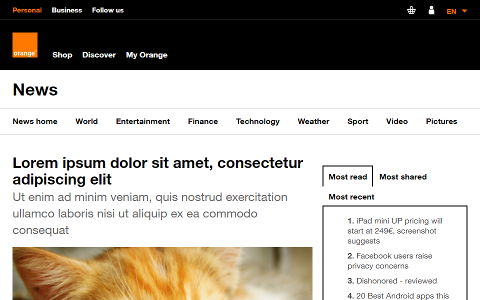
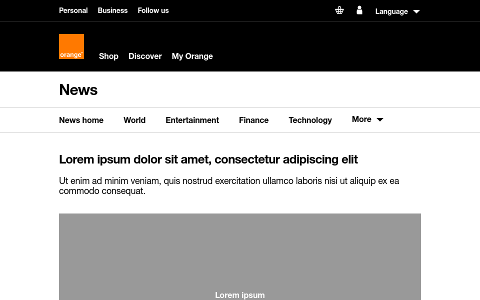
docs(examples): improve news template example

diff --git a/site/docs/4.4/examples/news-template/index.html b/site/docs/4.4/examples/news-template/index.html
@@ -183,10 +183,13 @@
 
       <section class="container">
         <div class="row">
-          <div class="col-12 col-sm-12 col-md-8">
+          <div class="col-12 col-lg-8">
             <h2 id="newsLeaderTitle">Lorem ipsum dolor sit amet, consectetur adipiscing elit</h2>
             <p class="lead">Ut enim ad minim veniam, quis nostrud exercitation ullamco laboris nisi ut aliquip ex ea commodo consequat.</p>
-            <img alt="Bored of lorem ipsum?" src="./images/8565182.jpg" class="img-fluid my-3" width="740" height="380" />
+            <svg class="img-fluid mt-3 mb-4 h5" width="860" height="380" xmlns="http://www.w3.org/2000/svg" preserveAspectRatio="xMidYMid slice" focusable="false" role="img">
+              <rect width="100%" height="100%" fill="#999"/>
+              <text x="50%" y="50%" fill="#fff" dy=".3em" dominant-baseline="middle" text-anchor="middle">Lorem ipsum</text>
+            </svg>
             <p>Lorem ipsum dolor sit amet, consectetur adipiscing elit. Nulla nec augue tempor, vestibulum nulla eget, lobortis
               sem. Duis nulla libero, tristique id nisi eget, dictum facilisis arcu. Duis eu felis lacinia, vestibulum est
               in, molestie nulla. Pellentesque habitant morbi tristique senectus et netus et malesuada fames ac turpis egestas.
@@ -268,97 +271,41 @@
               </div>
             </div>
             <!-- fin comments -->
-
-
-
-            <div class="row" id="newsSupp">
-              <div class="col-6 col-sm-6 col-lg-4 news">
-                <h2>a news</h2>
-                <p>Donec id elit non mi porta gravida at eget metus. Fusce dapibus, tellus ac cursus commodo, tortor mauris condimentum
-                  nibh, ut fermentum massa justo sit amet risus. Etiam porta sem malesuada magna mollis euismod. Donec sed odio
-                  dui. </p>
-                <a class="btn btn-secondary" href="#" title="view details about a news">View details »</a>
-              </div>
-
-              <div class="col-6 col-sm-6 col-lg-4 news">
-                <h2>news 2</h2>
-                <p>Donec id elit non mi porta gravida at eget metus. Fusce dapibus, tellus ac cursus commodo, tortor mauris condimentum
-                  nibh, ut fermentum massa justo sit amet risus. Etiam porta sem malesuada magna mollis euismod. Donec sed odio
-                  dui. </p>
-                <p><a class="btn btn-secondary" href="#" title="view details about another news">View details »</a></p>
-              </div>
-
-              <div class="col-6 col-sm-6 col-lg-4 news">
-                <h2>news 3</h2>
-                <p>Donec id elit non mi porta gravida at eget metus. Fusce dapibus, tellus ac cursus commodo, tortor mauris condimentum
-                  nibh, ut fermentum massa justo sit amet risus. Etiam porta sem malesuada magna mollis euismod. Donec sed odio
-                  dui. </p>
-                <p><a class="btn btn-secondary" href="#" title="view details about news 3">View details »</a></p>
-              </div>
-
-              <div class="col-6 col-sm-6 col-lg-4 news">
-                <h2>news 4</h2>
-                <p>Donec id elit non mi porta gravida at eget metus. Fusce dapibus, tellus ac cursus commodo, tortor mauris condimentum
-                  nibh, ut fermentum massa justo sit amet risus. Etiam porta sem malesuada magna mollis euismod. Donec sed odio
-                  dui. </p>
-                <p><a class="btn btn-secondary" href="#" title="view details about news 4">View details »</a></p>
-              </div>
-
-              <div class="col-6 col-sm-6 col-lg-4 news">
-                <h2>news 5</h2>
-                <p>Donec id elit non mi porta gravida at eget metus. Fusce dapibus, tellus ac cursus commodo, tortor mauris condimentum
-                  nibh, ut fermentum massa justo sit amet risus. Etiam porta sem malesuada magna mollis euismod. Donec sed odio
-                  dui. </p>
-                <p><a class="btn btn-secondary" href="#" title="view details about news 5">View details »</a></p>
-              </div>
-
-              <div class="col-6 col-sm-6 col-lg-4 news">
-                <h2>news 6</h2>
-                <p>Donec id elit non mi porta gravida at eget metus. Fusce dapibus, tellus ac cursus commodo, tortor mauris condimentum
-                  nibh, ut fermentum massa justo sit amet risus. Etiam porta sem malesuada magna mollis euismod. Donec sed odio
-                  dui. </p>
-                <p><a class="btn btn-secondary" href="#" title="view details about news 6">View details »</a></p>
-              </div>
-            </div>
-            <!-- fin row news supp -->
           </div>
           <!-- fin de la div de 8 colonnes -->
 
-
-
-          <div id="infos" class="col-12 col-sm-12 col-md-4">
+          <aside role="complementary" id="infos" class="col-12 col-lg-4 mt-5 mt-lg-0 pl-lg-5">
             <ul class="nav nav-tabs">
-              <li class="nav-item"><a class="nav-link active" href="#mostRead" data-toggle="tab">Most read</a></li>
-              <li class="nav-item"><a class="nav-link" href="#mostShared" data-toggle="tab">Most shared</a></li>
-              <li class="nav-item"><a class="nav-link" href="#mostRecent" data-toggle="tab">Most recent</a></li>
+              <li class="nav-item"><a class="nav-link active" href="#mostRead" data-toggle="tab">Popular</a></li>
+              <li class="nav-item"><a class="nav-link" href="#mostShared" data-toggle="tab">Trends</a></li>
+              <li class="nav-item"><a class="nav-link" href="#mostRecent" data-toggle="tab">Latest</a></li>
             </ul>
             <!-- Tab panes -->
             <div class="tab-content">
               <div class="tab-pane active" id="mostRead">
-                <ul>
-                  <li><a href="#"><span class="bold">1. </span>iPad mini UP pricing will start at 249€, screenshot suggests</a></li>
-                  <li><a href="#"><span class="bold">2. </span>Facebook users raise privacy concerns</a></li>
-                  <li><a href="#"><span class="bold">3. </span>Dishonored - reviewed</a></li>
-                  <li><a href="#"><span class="bold">4. </span>20 Best Android apps this week</a></li>
-                  <li><a href="#"><span class="bold">5. </span>Winsor McCay: Little Nemo in Slumberland Doodle celebates a comics great</a></li>
-                  <li><a class="svg-arrow-next" href="#">more most read</a></li>
-                </ul>
+                <ol>
+                  <li><a href="#">iPad mini UP pricing will start at 249€, screenshot suggests</a></li>
+                  <li><a href="#">Facebook users raise privacy concerns</a></li>
+                  <li><a href="#">Dishonored - reviewed</a></li>
+                  <li><a href="#">20 Best Android apps this week</a></li>
+                  <li><a href="#">Winsor McCay: Little Nemo in Slumberland Doodle celebates a comics great</a></li>
+                </ol>
+                <a class="o-link-arrow ml-4" href="#">More popular</a>
               </div>
               <div class="tab-pane" id="mostShared">
-                <ul>
-                  <li><a href="#"><span class="bold">1. </span>Facebook users raise privacy concerns</a></li>
-                  <li><a href="#"><span class="bold">2. </span>Winsor McCay: Little Nemo in Slumberland Doodle celebates a comics great</a></li>
-                  <li><a href="#"><span class="bold">3. </span>20 Best Android apps this week</a></li>
-                  <li><a href="#"><span class="bold">4. </span>Dishonored - reviewed</a></li>
-                  <li><a href="#"><span class="bold">5. </span>iPad mini UP pricing will start at 249€, screenshot suggests</a></li>
-                </ul>
+                <ol>
+                  <li><a href="#">Facebook users raise privacy concerns</a></li>
+                  <li><a href="#">Winsor McCay: Little Nemo in Slumberland Doodle celebates a comics great</a></li>
+                  <li><a href="#">20 Best Android apps this week</a></li>
+                  <li><a href="#">Dishonored - reviewed</a></li>
+                  <li><a href="#">iPad mini UP pricing will start at 249€, screenshot suggests</a></li>
+                </ol>
+                <a class="o-link-arrow ml-4" href="#">More trends</a>
               </div>
-              <div class="tab-pane" id="mostRecent">no recent news</div>
+              <div class="tab-pane" id="mostRecent">No recent news.</div>
             </div>
 
-
-
-            <h2 class="h3">related stories</h2>
+            <h2 class="h3 mt-5">Related stories</h2>
             <div id="accordion" class="accordion">
               <div class="card">
                 <div class="card-header" id="headingOne">
@@ -407,83 +354,178 @@
               </div>
             </div>
             <!-- fin de la div accordéon -->
-          </div>
+          </aside>
           <!--fin de la div de 4 colonnes -->
         </div>
         <!-- fin de la row globale-->
       </section>
+
+      <div class="bg-light py-5 border-top mt-3">
+        <div class="container-fluid">
+          <h2>Latest news</h2>
+          <div class="row row-cols-1 row-cols-sm-2 row-cols-md-3 row-cols-lg-6" id="newsSupp">
+            <div class="col mb-3">
+              <div class="card">
+                <div class="card-body">
+                  <h2 class="card-title">News 1</h2>
+                  <p class="card-text">Donec id elit non mi porta gravida at eget metus. Fusce dapibus, tellus ac cursus commodo, tortor mauris condimentum
+                    nibh, ut fermentum massa justo sit amet risus. Etiam porta sem malesuada magna mollis euismod. Donec sed odio
+                    dui. </p>
+                  <a class="btn btn-primary" href="#">View details<span class="sr-only"> about News 1</span></a>
+                </div>
+              </div>
+            </div>
+
+            <div class="col mb-3">
+              <div class="card">
+                <div class="card-body">
+                  <h2 class="card-title">News 2</h2>
+                  <p class="card-text">Donec id elit non mi porta gravida at eget metus. Fusce dapibus, tellus ac cursus commodo, tortor mauris condimentum
+                    nibh, ut fermentum massa justo sit amet risus. Etiam porta sem malesuada magna mollis euismod. Donec sed odio
+                    dui. </p>
+                  <a class="btn btn-primary" href="#">View details<span class="sr-only"> about News 2</span></a>
+                </div>
+              </div>
+            </div>
+
+            <div class="col mb-3">
+              <div class="card">
+                <div class="card-body">
+                  <h2 class="card-title">News 3</h2>
+                  <p class="card-text">Donec id elit non mi porta gravida at eget metus. Fusce dapibus, tellus ac cursus commodo, tortor mauris condimentum
+                    nibh, ut fermentum massa justo sit amet risus. Etiam porta sem malesuada magna mollis euismod. Donec sed odio
+                    dui. </p>
+                  <a class="btn btn-primary" href="#">View details<span class="sr-only"> about News 3</span></a>
+                </div>
+              </div>
+            </div>
+
+            <div class="col mb-3">
+              <div class="card">
+                <div class="card-body">
+                  <h2 class="card-title">News 4</h2>
+                  <p class="card-text">Donec id elit non mi porta gravida at eget metus. Fusce dapibus, tellus ac cursus commodo, tortor mauris condimentum
+                    nibh, ut fermentum massa justo sit amet risus. Etiam porta sem malesuada magna mollis euismod. Donec sed odio
+                    dui. </p>
+                  <a class="btn btn-primary" href="#">View details<span class="sr-only"> about News 4</span></a>
+                </div>
+              </div>
+            </div>
+
+            <div class="col mb-3">
+              <div class="card">
+                <div class="card-body">
+                  <h2 class="card-title">News 5</h2>
+                  <p class="card-text">Donec id elit non mi porta gravida at eget metus. Fusce dapibus, tellus ac cursus commodo, tortor mauris condimentum
+                    nibh, ut fermentum massa justo sit amet risus. Etiam porta sem malesuada magna mollis euismod. Donec sed odio
+                    dui. </p>
+                  <a class="btn btn-primary" href="#">View details<span class="sr-only"> about News 5</span></a>
+                </div>
+              </div>
+            </div>
+
+            <div class="col mb-3">
+              <div class="card">
+                <div class="card-body">
+                  <h2 class="card-title">News 6</h2>
+                  <p class="card-text">Donec id elit non mi porta gravida at eget metus. Fusce dapibus, tellus ac cursus commodo, tortor mauris condimentum
+                    nibh, ut fermentum massa justo sit amet risus. Etiam porta sem malesuada magna mollis euismod. Donec sed odio
+                    dui. </p>
+                  <a class="btn btn-primary" href="#">View details<span class="sr-only"> about News 6</span></a>
+                </div>
+              </div>
+            </div>
+          </div>
+        </div>
+      </div>
+      <!-- fin row news supp -->
     </main>
 
-    <footer class="o-footer" role="contentinfo">
-      <h2 class="sr-only">footer - site map & informations</h2>
+    <footer class="o-footer mt-0" role="contentinfo">
+      <h2 class="sr-only">Site map & informations</h2>
       <div class="o-footer-top">
-          <div class="container">
-              <ul class="nav">
-                  <li class="nav-item"><span class="nav-link">Follow us</span></li>
-              </ul>
+        <div class="container">
+          <div class="row mb-0">
+            <ul class="nav align-items-center">
+              <li class="nav-item"><span class="nav-link">Follow us:</span></li>
+              <li class="nav-item"><a class="nav-link btn btn-social btn-twitter" href="#"><span class="sr-only">Twitter</span></a></li>
+              <li class="nav-item"><a class="nav-link btn btn-social btn-facebook" href="#"><span class="sr-only">Facebook</span></a></li>
+              <li class="nav-item"><a class="nav-link btn btn-social btn-instagram" href="#"><span class="sr-only">Instagram</span></a></li>
+              <li class="nav-item"> <a class="nav-link btn btn-social btn-whatsapp" href="#"><span class="sr-only">Whatsapp</span></a></li>
+              <li class="nav-item"><a class="nav-link btn btn-social btn-linkedin" href="#"><span class="sr-only">Linkedin</span></a></li>
+              <li class="nav-item"><a class="nav-link btn btn-social btn-youtube" href="#"><span class="sr-only">YouTube</span></a></li>
+              <li class="nav-item"><a class="nav-link btn btn-social btn-snapchat" href="#"><span class="sr-only">Snapchat</span></a></li>
+              <li class="nav-item"><a class="nav-link btn btn-social btn-pinterest" href="#"><span class="sr-only">Pinterest</span></a></li>
+              <li class="nav-item"><a class="nav-link btn btn-social btn-mail" href="#"><span class="sr-only">Mail</span></a></li>
+            </ul>
           </div>
+        </div>
       </div>
       <div class="o-footer-body">
-          <div class="container">
-              <div class="row">
-                  <div class="col-md-3 col-sm-6">
-                      <h2>Discover</h2>
-                      <ul class="nav flex-column">
-                          <li class="nav-item"><a class="nav-link" href="#">Unde omnis istea</a></li>
-                          <li class="nav-item"><a class="nav-link" href="#">Natus error sit</a></li>
-                          <li class="nav-item"><a class="nav-link" href="#">Voluptatem</a></li>
-                          <li class="nav-item"><a class="nav-link" href="#">Totam rem aperiam</a></li>
-                      </ul>
-                  </div>
-                  <div class="col-md-3 col-sm-6">
-                      <h2>Shop</h2>
-                      <ul class="nav flex-column">
-                          <li class="nav-item"><a class="nav-link" href="#">Natus error sit</a></li>
-                          <li class="nav-item"><a class="nav-link" href="#">Unde omnis istea</a></li>
-                          <li class="nav-item"><a class="nav-link" href="#">Voluptatem</a></li>
-                          <li class="nav-item"><a class="nav-link" href="#">Doloremque</a></li>
-                          <li class="nav-item"><a class="nav-link" href="#">Totam rem aperiam</a></li>
-                      </ul>
-                  </div>
-                  <div class="col-md-3 col-sm-6">
-                      <h2>Services</h2>
-                      <ul class="nav flex-column">
-                          <li class="nav-item"><a class="nav-link" href="#">Doloremque</a></li>
-                          <li class="nav-item"><a class="nav-link" href="#">Totam rem aperiam</a></li>
-                      </ul>
-                  </div>
-                  <div class="col-md-3 col-sm-6">
-                      <h2>Support</h2>
-                      <ul class="nav flex-column">
-                          <li class="nav-item"><a class="nav-link" href="#">Doloremque</a></li>
-                          <li class="nav-item"><a class="nav-link" href="#">Unde omnis istea</a></li>
-                          <li class="nav-item"><a class="nav-link" href="#">Voluptatem</a></li>
-                          <li class="nav-item"><a class="nav-link" href="#">Totam rem aperiam</a></li>
-                      </ul>
-                  </div>
-              </div>
-              <ul class="nav">
-                  <li class="nav-item"><a class="nav-link" href="#">Contact us</a></li>
-                  <li class="nav-item"><a class="nav-link" href="#">Locate a store</a></li>
-                  <li class="nav-item"><a class="nav-link" href="#">Coverage map</a></li>
-                  <li class="nav-item"><a class="nav-link" href="#">Business</a></li>
-                  <li class="nav-item"><a class="nav-link" href="#">Child protection</a></li>
+        <div class="container">
+          <div class="row">
+            <div class="col-md-3 col-sm-6">
+              <h2>Discover</h2>
+              <ul class="nav flex-column">
+                <li class="nav-item"><a class="nav-link" href="#">Unde omnis istea</a></li>
+                <li class="nav-item"><a class="nav-link" href="#">Natus error sit</a></li>
+                <li class="nav-item"><a class="nav-link" href="#">Voluptatem</a></li>
+                <li class="nav-item"><a class="nav-link" href="#">Totam rem aperiam</a></li>
               </ul>
+            </div>
+            <div class="col-md-3 col-sm-6">
+              <h2>Shop</h2>
+              <ul class="nav flex-column">
+                <li class="nav-item"><a class="nav-link" href="#">Natus error sit</a></li>
+                <li class="nav-item"><a class="nav-link" href="#">Unde omnis istea</a></li>
+                <li class="nav-item"><a class="nav-link" href="#">Voluptatem</a></li>
+                <li class="nav-item"><a class="nav-link" href="#">Doloremque</a></li>
+                <li class="nav-item"><a class="nav-link" href="#">Totam rem aperiam</a></li>
+              </ul>
+            </div>
+            <div class="col-md-3 col-sm-6">
+              <h2>Services</h2>
+              <ul class="nav flex-column">
+                <li class="nav-item"><a class="nav-link" href="#">Doloremque</a></li>
+                <li class="nav-item"><a class="nav-link" href="#">Totam rem aperiam</a></li>
+              </ul>
+            </div>
+            <div class="col-md-3 col-sm-6">
+              <h2>Support</h2>
+              <ul class="nav flex-column">
+                <li class="nav-item"><a class="nav-link" href="#">Doloremque</a></li>
+                <li class="nav-item"><a class="nav-link" href="#">Unde omnis istea</a></li>
+                <li class="nav-item"><a class="nav-link" href="#">Voluptatem</a></li>
+                <li class="nav-item"><a class="nav-link" href="#">Totam rem aperiam</a></li>
+              </ul>
+            </div>
           </div>
+          <div class="row mb-0">
+            <ul class="nav">
+              <li class="nav-item"><a class="nav-link" href="#">Contact us</a></li>
+              <li class="nav-item"><a class="nav-link" href="#">Locate a store</a></li>
+              <li class="nav-item"><a class="nav-link" href="#">Coverage map</a></li>
+              <li class="nav-item"><a class="nav-link" href="#">Business</a></li>
+              <li class="nav-item"><a class="nav-link" href="#">Child protection</a></li>
+            </ul>
+          </div>
+        </div>
       </div>
       <div class="o-footer-bottom">
-          <div class="container">
-              <ul class="nav">
-                  <li class="nav-item"><span class="nav-link">© Orange 2018-2019</span></li>
-                  <li class="nav-item"><a class="nav-link" href="#">Jobs</a></li>
-                  <li class="nav-item"><a class="nav-link" href="#">Advertise</a></li>
-                  <li class="nav-item"><a class="nav-link" href="#">Terms & Conditions</a></li>
-                  <li class="nav-item"><a class="nav-link" href="#">Privacy</a></li>
-                  <li class="nav-item"><a class="nav-link" href="#">Cookies</a></li>
-                  <li class="nav-item"><a class="nav-link" href="#">Access for all</a></li>
-                  <li class="nav-item"><a class="nav-link" href="#">Safety online</a></li>
-              </ul>
+        <div class="container">
+          <div class="row mb-0">
+            <ul class="nav">
+              <li class="nav-item"><span class="nav-link">© Orange 2018-2019</span></li>
+              <li class="nav-item"><a class="nav-link" href="#">Jobs</a></li>
+              <li class="nav-item"><a class="nav-link" href="#">Advertise</a></li>
+              <li class="nav-item"><a class="nav-link" href="#">Terms & Conditions</a></li>
+              <li class="nav-item"><a class="nav-link" href="#">Privacy</a></li>
+              <li class="nav-item"><a class="nav-link" href="#">Cookies</a></li>
+              <li class="nav-item"><a class="nav-link" href="#">Access for all</a></li>
+              <li class="nav-item"><a class="nav-link" href="#">Safety online</a></li>
+            </ul>
           </div>
+        </div>
       </div>
     </footer>
 
@@ -492,6 +534,9 @@
     <script>window.jQuery || document.write('<script src="/docs/4.4/assets/js/vendor/jquery-slim.min.js"><\/script>')</script>
     <script src="https://cdnjs.cloudflare.com/ajax/libs/popper.js/1.15.0/umd/popper.min.js" integrity="sha384-L2pyEeut/H3mtgCBaUNw7KWzp5n9+4pDQiExs933/5QfaTh8YStYFFkOzSoXjlTb" crossorigin="anonymous"></script>
     <script src="/docs/4.4/dist/js/boosted.min.js"></script>
+    <script>$(function () {
+        $('.o-nav-local').prioritynav();
+      });</script>
   </body>
 </html>
 
